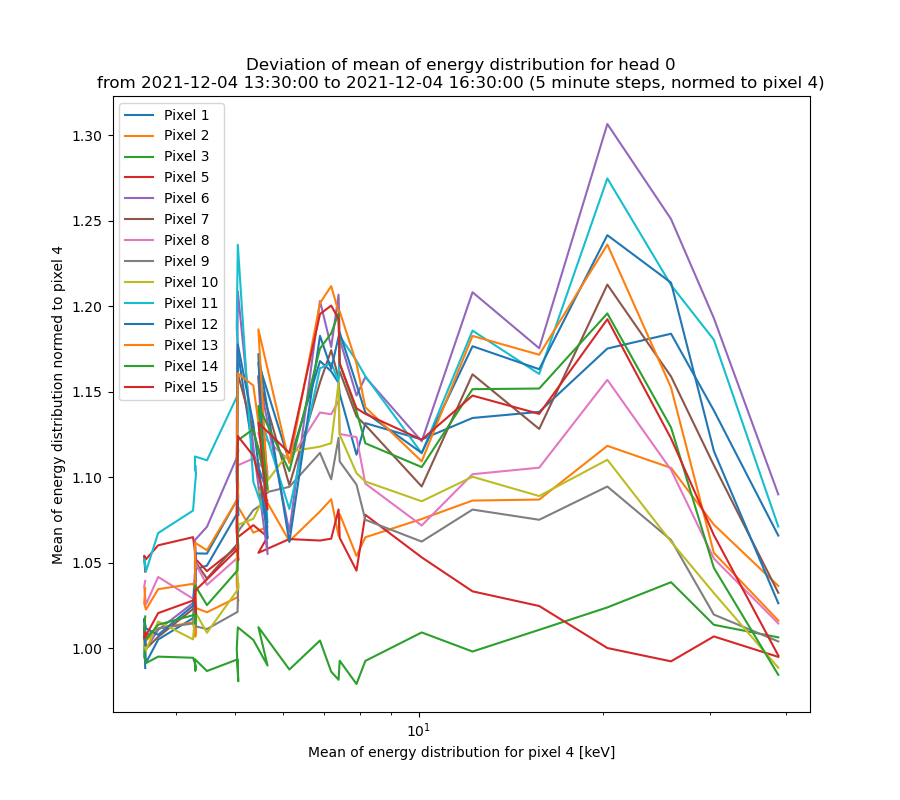
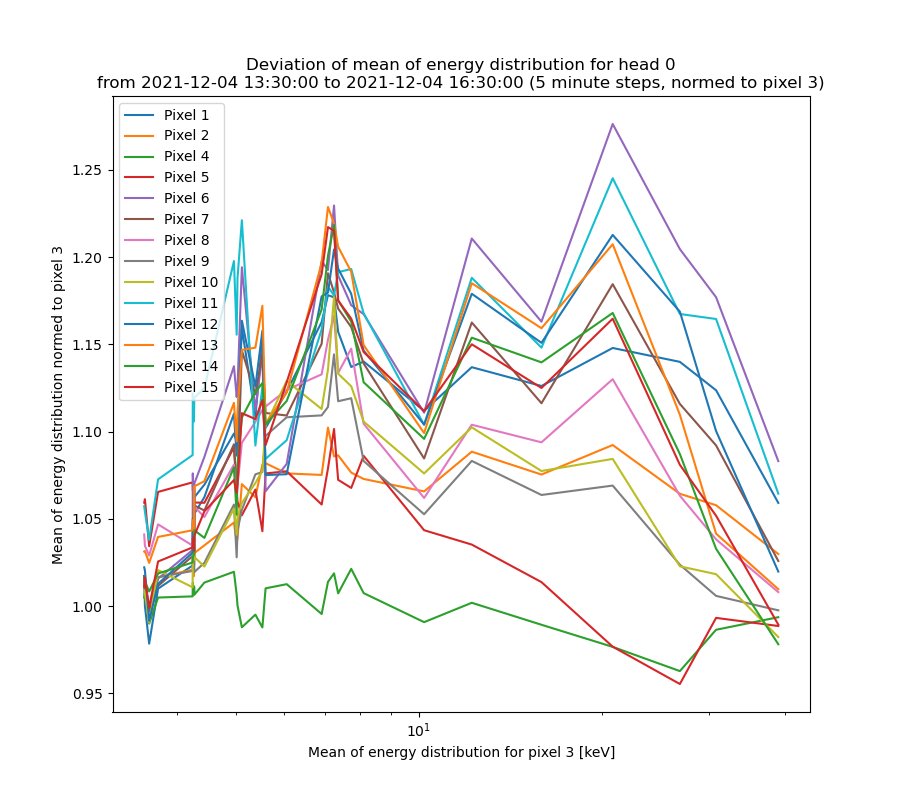
Neues GIF

diff --git a/analyze_nom_II.py b/analyze_nom_II.py
@@ -8,6 +8,9 @@ import matplotlib.dates as mdates
 import load_nom_II as ld
 import plot_nom_II as pt
 
+from PIL import Image
+import glob
+
 from scipy.optimize import curve_fit
 
 ebins = np.array([  0.98 ,   2.144,   2.336,   2.544,   2.784,   3.04 ,   3.312,
@@ -521,12 +524,16 @@ class STEP:
             
         fig = plt.figure(figsize=(9,8))            
         if norm_pixel != None:
+            #Sortierung per argsort, wird bei plot gebraucht
+            ind = np.argsort(pixel_means[norm_pixel])
+            
             # Normierung
             norm_factor = np.array(pixel_means[norm_pixel])   # ist tatsächlich ein array
+            pixel_means[norm_pixel] = np.array(pixel_means[norm_pixel]) 
             for k in pixel_list:
                 if k!= norm_pixel:
                     pixel_means[k] = np.array(pixel_means[k])/norm_factor
-                    plt.plot(pixel_means[norm_pixel],pixel_means[k],label='Pixel ' + str(k))
+                    plt.plot(pixel_means[norm_pixel][ind],pixel_means[k][ind],label='Pixel ' + str(k))
         
         if norm_pixel != None:
             plt.title('Deviation of mean of energy distribution for head ' + str(head) + '\nfrom ' + str(period[0]) + ' to ' + str(period[1]) + ' (' + str(window_width) + ' minute steps, normed to pixel ' + str(norm_pixel) + ')')
@@ -567,7 +574,82 @@ class STEP:
         self.plot_ts(period=period, head=head, save=save, norm=norm,box_list=box_list)
         if close:
             plt.close('all')
+            
+    def distribution_ring(self, filename, title, head, norm, save, period, box_list, norm_pixel, res = '1min', overflow = True, esquare = False,window_width = 5, close=False, sorted_by_energy=False):
+        '''Darstellung von means der einzelnen Pixel als GIF. Es soll die ringförmige Verteilung deutlich werden.'''
+        
+        i = 0
+        pixel_means = [[] for i in range(16)]     # Liste mit Listen der Mittelwerte der einzelnen Pixel. Die erste Liste enthält die Zeitstempel (jeweils Mitte der Zeitfenster)
+        
+        if type(box_list) == list:
+            little_helper_dat, little_helper_time, little_helper_vmax = self.data_prep(ebins,res,head,period,norm,overflow,esquare)
+            pldat = self.data_boxes(little_helper_dat,little_helper_time,box_list)
+        else:
+            pldat = self.data_prep(ebins,res,head,period,norm,overflow,esquare)[0]
+
+        while (period[0] + dt.timedelta(minutes=(i+1)*window_width)) <= period[1]:
+            pixel_means[0].append(period[0] + dt.timedelta(minutes=(i+0.5)*window_width))
+            
+            # Berechnung der Mittelwerte:
+            for k in [i for i in range(1,16)]:
+                pdat = pldat[k][i*window_width:(i+1)*window_width]
+                integral = np.sum(pdat,axis=0)
+                # calculating mean
+                mean = 0.0
+                for j in range(len(integral)):
+                    # Für Bestimmung des Mittelwertes der Verteilung wird Mitte der Bins gewählt
+                    mean += integral[j]*0.5*(ebins[j+1]+ebins[j])
+                mean = mean/np.sum(integral)
+                pixel_means[k].append(mean)
+            i +=1
+            
+            
+        if sorted_by_energy:
+            ind = np.argsort(pixel_means[norm_pixel])
+        else:
+            ind = np.array(i for i in range(len(pixel_means[norm_pixel])))
+            
+        norm_factor = np.array(pixel_means[norm_pixel]) 
+        for k in range(1,16):
+            pixel_means[k] = np.array(pixel_means[k])/norm_factor
+        
+        # Plotting
+        x_corners = [0,1,2,3,4,5]
+        y_corners = [0,1,2,3]
+        for k in range(len(pixel_means[1])):
+            a = [pixel_means[j][ind][k] for j in range(1,6)]
+            b = [pixel_means[j][ind][k] for j in range(6,11)]
+            c = [pixel_means[j][ind][k] for j in range(11,16)]        
+            data_means = np.array([c,b,a])
+            
+            fig, ax = plt.subplots(1,1,figsize=(8,8))
+            
+            tmp = ax.pcolormesh(x_corners,y_corners,data_means)
+            plt.colorbar(tmp)
+            ax.get_xaxis().set_visible(False)
+            ax.get_yaxis().set_visible(False)
+            
+            if sorted_by_energy == True:
+                ax.set_title(title + f'\n(head {head}, {window_width} minute steps, normed to pixel {norm_pixel})\nfrom ' + str(period[0]) + ' to ' + str(period[1]) + f'\n Mean Energy of Pixel {norm_pixel}: ' + str(norm_factor[ind][k]) + ' [keV]')
+            else:
+                ax.set_title(title + f'\n(head {head}, {window_width} minute steps, normed to pixel {norm_pixel})\nfrom ' + str(period[0]) + ' to ' + str(period[1]) + f'\n Mean Energy of Pixel {norm_pixel}' + str(pixel_means[0][ind][k]))
     
+            plt.savefig('gif_images/image' + str(k) + '.png')
+            
+            if close:
+                plt.close('all')
+        
+        # Erstellen des GIF's
+        frames = []
+        imgs = glob.glob("gif_images/image*.png")
+        for i in imgs:
+            new_frame = Image.open(i)
+            frames.append(new_frame)
+
+        # Save the png images into a GIF file that loops forever
+        frames[0].save(f'gif/{filename}.gif', format='GIF', append_images=frames[1:], save_all=True, duration=500, loop=0)
+        print('Created GIF successfully!')
+        
 
     def landau(self,x,A,B,C,D):
         return A/np.sqrt(2*np.pi)*np.exp(-B*0.5*((x+C) + np.exp(-(x+C)))) + D

diff --git a/analyze_data.py b/analyze_data.py
@@ -21,8 +21,10 @@ pixel_list = [i for i in range(1,16)] # [4,9,14]
 # dat.evolution_energy_means(filename='test_evolution.png',norm='tmax',save='etracks/',period=[dt.datetime(2021,12,4,13,30),dt.datetime(2021,12,4,16,30)],box_list=box_list)
 # dat.plot_ts(period=[dt.datetime(2021,12,4,13,30),dt.datetime(2021,12,4,16,30)], head=0, save='etracks/', norm='tmax',box_list=box_list)
 
-dat.evolution_energy_means_ts(filename='test_evolution.png',head=0,norm='tmax',save='etracks/',period=[dt.datetime(2021,12,4,13,30),dt.datetime(2021,12,4,16,30)],box_list=box_list,pixel_list=pixel_list,norm_pixel=4,close=True)
+# dat.evolution_energy_means_ts(filename='test_evolution.png',head=0,norm='tmax',save='etracks/',period=[dt.datetime(2021,12,4,13,30),dt.datetime(2021,12,4,16,30)],box_list=box_list,pixel_list=pixel_list,norm_pixel=3,close=True)
 # dat.evolution_energy_means_ts(filename='test_evolution_2.png',head=0,norm='tmax',save='etracks/v2',period=[dt.datetime(2021,12,4,13,30),dt.datetime(2021,12,4,16,30)],box_list=box_list_2,pixel_list=pixel_list,norm_pixel=4,close=True)
+
+dat.distribution_ring(filename='Test', title='Mean of energy sorted by energy of pixel 3', head=0, norm='tmax', save='etracks/', period=[dt.datetime(2021,12,4,13,30),dt.datetime(2021,12,4,16,30)],box_list=box_list, norm_pixel = 3, res = '1min', overflow = True, esquare = False,window_width = 5, close=True, sorted_by_energy=True)
 
 
 # dat = STEP(2021,12,5)
